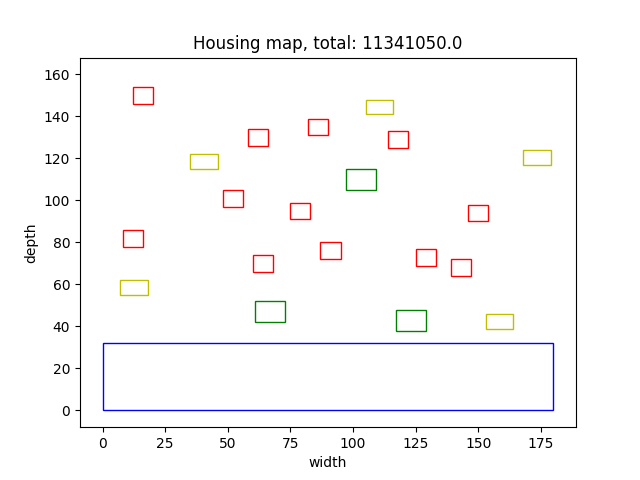
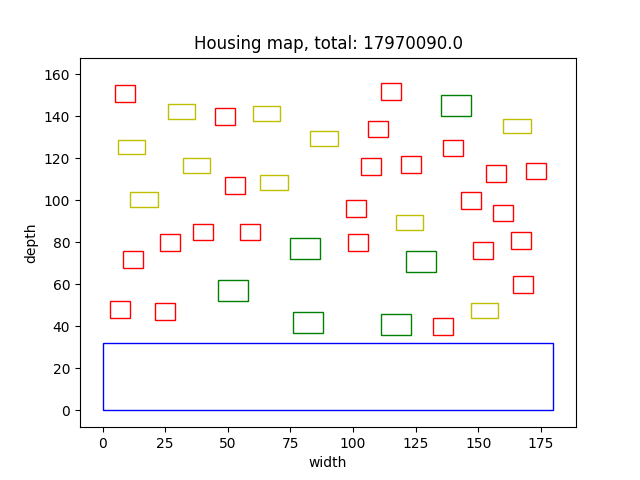
fixed overlap & added atributes to House

diff --git a/project_code/classes/land.py b/project_code/classes/land.py
@@ -15,59 +15,32 @@ class Land():
         self.depth = 160
         self.all_polygons = []
         self.all_land_objects = []
-        # self.available_coordinates = []
         self.total = 0
-
-        # for x in range(180+1):
-        #     for y in range(160+1):
-        #         coordinate = tuple((x,y))
-        #         self.available_coordinates.append(coordinate)
         
         self.water = self.load_water(source_file)
-        self.load_houses(number_houses, )
+        self.load_houses(number_houses)
         
-    # def remove_used_point(self, land_object):
-        
-        # for x in range(land_object.bottom_left[0], land_object.top_right[0]+1):
-        #     for y in range(land_object.bottom_left[1], land_object.top_right[1]+1):
-        #         coordinate = tuple((x, y))
-        #         #print(coordinate)
-        #         self.available_coordinates.remove(coordinate)
-        # #print(len(self.available_coordinates))
-
     def overlap(self, house):
         '''
         function to check for overlap
         '''
-        new_house = house.polygon
         
         # checks all landobjects if overlap return true
         for land_object in self.all_land_objects:
-            if land_object.polygon.intersects(new_house) == True:
-                # del house
-                return True
-        
             if land_object.name != 'water':
-                origin = house.polygon
-                polygons = MultiPolygon(self.all_polygons)
-                nearest_geom = nearest_points(origin, polygons)
-                x = math.floor(nearest_geom[0].distance(nearest_geom[1]))
-                extra_space = math.floor(x)
-                if extra_space < land_object.free_space:
-                    #print(f"extra space: {extra_space}")
-                    #print (f'fout {land_object.name}')
+                if house.polygon_free_space.intersects(land_object.polygon) == True or land_object.polygon_free_space.intersects(house.polygon_free_space) == True:
+                    return True        
+            if land_object.name == 'water':
+                if land_object.polygon.intersects(house.polygon) == True:
                     return True
+
                 
 
         # if no overlap append polygon to list
         self.all_land_objects.append(house)
-        self.all_polygons.append(house.polygon)
+        #self.all_polygons.append(house.polygon)
 
         return False
-    
-    def check_free_space(self):
-        pass
-
 
     def load_water(self, source_file):
         '''
@@ -89,7 +62,7 @@ class Land():
                 water = Water(bottom_left_tuple, top_right_tuple, polygon)
 
                 self.all_land_objects.append(water)
-                self.all_polygons.append(water.polygon)
+                #self.all_polygons.append(water.polygon)
          
         return self.all_land_objects
 
@@ -97,41 +70,61 @@ class Land():
         '''
         function to load all houses in a specific neighbourhood
         '''
-
         for i in range(int(0.15 * number_houses)):
             width = 12
             depth = 10
+            width2 = 24
+            depth2 = 22
+            required_free_space = 6
             overlap = True
             maison = None
             while (overlap):
-                coordinates = randomise_coordinates(width, depth)
-                polygon = Polygon([coordinates, (coordinates[0] + width, coordinates[1]), (coordinates[0] + width, coordinates[1] + depth), (coordinates[0], coordinates[1] + depth)])
-                maison = House("maison", width, depth, 610000, coordinates, polygon, 6)
-                overlap = self.overlap(maison)         
+                coordinates = randomise_coordinates(width2, depth2)
+                polygon = Polygon([(coordinates[0] + required_free_space, coordinates[1] + required_free_space), (coordinates[0] + width + required_free_space, coordinates[1] + required_free_space), (coordinates[0] + width + required_free_space, coordinates[1] + depth + required_free_space), (coordinates[0] + required_free_space, coordinates[1] + depth + required_free_space)])
+                
+                # polygon met verplichte vrij ruimte aangemaakt voor berekening van prijs
+                polygon_free_space = Polygon([coordinates, (coordinates[0] + width2, coordinates[1]), (coordinates[0] + width2, coordinates[1] + depth2), (coordinates[0], coordinates[1] + depth2)])
+                coordinates2 = tuple((coordinates[0] + required_free_space, coordinates[1] + required_free_space))
+                maison = House("maison", width, depth, 610000, coordinates2, polygon, 6, polygon_free_space)
+                overlap = self.overlap(maison)  
 
         for i in range(int(0.25 * number_houses)):
             width = 11
             depth = 7
+            width2 = 17
+            depth2 = 19
+            required_free_space = 3
             overlap = True
             bungalow = None
             while (overlap):
-                coordinates = randomise_coordinates(width, depth)
-                polygon = Polygon([coordinates, (coordinates[0] + width, coordinates[1]), (coordinates[0] + width, coordinates[1] + depth), (coordinates[0], coordinates[1] + depth)])
-                bungalow = House("bungalow", width, depth, 399000, coordinates, polygon, 3)
+                coordinates = randomise_coordinates(width2, depth2)
+                polygon = Polygon([(coordinates[0] + required_free_space, coordinates[1] + required_free_space), (coordinates[0] + width + required_free_space, coordinates[1] + required_free_space), (coordinates[0] + width + required_free_space, coordinates[1] + depth + required_free_space), (coordinates[0] + required_free_space, coordinates[1] + depth + required_free_space)])
+
+                # polygon met verplichte vrij ruimte aangemaakt voor berekening van prijs
+                polygon_free_space = Polygon([coordinates, (coordinates[0] + width2, coordinates[1]), (coordinates[0] + width2, coordinates[1] + depth2), (coordinates[0], coordinates[1] + depth2)])
+                coordinates2 = tuple((coordinates[0] + required_free_space, coordinates[1] + required_free_space))
+                bungalow = House("bungalow", width, depth, 399000, coordinates2, polygon, 3, polygon_free_space)
                 overlap = self.overlap(bungalow)
 
         for i in range(int(0.6 * number_houses)):
             width = 8
             depth = 8
+            width2 = 12
+            depth2 = 12
+            required_free_space = 2
             overlap = True
             familyhome = None
             while(overlap):
-                coordinates = randomise_coordinates(width, depth)
-                polygon = Polygon([coordinates, (coordinates[0] + width, coordinates[1]), (coordinates[0] + width, coordinates[1] + depth), (coordinates[0], coordinates[1] + depth)])
-                familyhome = House("familyhome", width, depth, 285000, coordinates, polygon, 2)
+                coordinates = randomise_coordinates(width2, depth2)
+                polygon = Polygon([(coordinates[0] + required_free_space, coordinates[1] + required_free_space), (coordinates[0] + width + required_free_space, coordinates[1] + required_free_space), (coordinates[0] + width + required_free_space, coordinates[1] + depth + required_free_space), (coordinates[0] + required_free_space, coordinates[1] + depth + required_free_space)])
+
+                # polygon met verplichte vrij ruimte aangemaakt voor berekening van prijs
+                polygon_free_space = Polygon([coordinates, (coordinates[0] + width2, coordinates[1]), (coordinates[0] + width2, coordinates[1] + depth2), (coordinates[0], coordinates[1] + depth2)])
+                coordinates2 = tuple((coordinates[0] + required_free_space, coordinates[1] + required_free_space))
+                familyhome = House("familyhome", width, depth, 285000, coordinates2, polygon, 2, polygon_free_space)
                 overlap = self.overlap(familyhome)
-            
-     
+
+       
     def calculate_distance(self, houses):
         '''
         Calculate distance to closest house
@@ -144,14 +137,14 @@ class Land():
        
         for house in houses:    
             if house.name != "water": 
-                origin = house.polygon
-                all_polygons.remove(origin)
+                origin = house.polygon_free_space
+                # eigen polygon even uit huisverwijderen 
+                all_polygons.remove(house.polygon)
                 polygons = MultiPolygon(all_polygons)
                 nearest_geom = nearest_points(origin, polygons)
-                x = math.floor(nearest_geom[0].distance(nearest_geom[1]))
-                extra_space = math.floor(x) # /2 weghalen
+                extra_space = math.floor(nearest_geom[0].distance(nearest_geom[1]))
                 house.nearest_neighbour = extra_space
-                all_polygons.append(origin)        
+                all_polygons.append(house.polygon)        
 
     def calculate_price(self, houses):
         '''

diff --git a/project_code/algorithms/render_randomise.py b/project_code/algorithms/render_randomise.py
@@ -2,19 +2,19 @@ from project_code.classes.land import Land
 
 class Randomise():
     pass
-    # def __init__(self, iterations):
-    # highest_score = 0
-    # best_map = None
+    def __init__(self, iterations):
+    highest_score = 0
+    best_map = None
 
-    # def render_randomise(iterations):
-    #     highest_scoring_map = None
-    #     highest_score = 0
-    #     for n in range(iterations+1):
-    #         housing_map = Land(f"data/{wijk_number}.csv", number_of_houses)
-    #         housing_map.calculate_distance(housing_map.all_land_objects)
-    #         total_value = housing_map.calculate_price(housing_map.all_land_objects)
-    #         if total_value > highest_score:
-    #             highest_scoring_map = housing_map
-    #             highest_score = total_value
-    #     print(highest_score)
-    #     return highest_scoring_map
+    def render_randomise(iterations):
+        highest_scoring_map = None
+        highest_score = 0
+        for n in range(iterations+1):
+            housing_map = Land(f"data/{wijk_number}.csv", number_of_houses)
+            housing_map.calculate_distance(housing_map.all_land_objects)
+            total_value = housing_map.calculate_price(housing_map.all_land_objects)
+            if total_value > highest_score:
+                highest_scoring_map = housing_map
+                highest_score = total_value
+        print(highest_score)
+        return highest_scoring_map

diff --git a/project_code/classes/house.py b/project_code/classes/house.py
@@ -1,6 +1,6 @@
 class House():
 
-    def __init__(self, type_house, width, depth, price, coordinates, polygon, free_space):
+    def __init__(self, type_house, width, depth, price, coordinates, polygon, free_space, polygon_free_space):
         self.name = type_house
         self.width = width
         self.depth = depth
@@ -10,6 +10,9 @@ class House():
         self.polygon = polygon
         self.nearest_neighbour = None
         self.free_space = free_space
+        self.width_with_freespace = self.width + (self.free_space * 2)
+        self.depth_with_freespace = self.depth + (self.free_space * 2)
+        self.polygon_free_space = polygon_free_space
 
     def __str__(self):
         return (f"name:{self.name}, left_bottom: {self.bottom_left}, top_right: {self.top_right}")

diff --git a/project_code/algorithms/randomise.py b/project_code/algorithms/randomise.py
@@ -1,6 +1,7 @@
 import random
 # from ..classes.land import Land
 
+
 def randomise_coordinates(width, depth):
     #width1 = width
     #depth1 = depth
